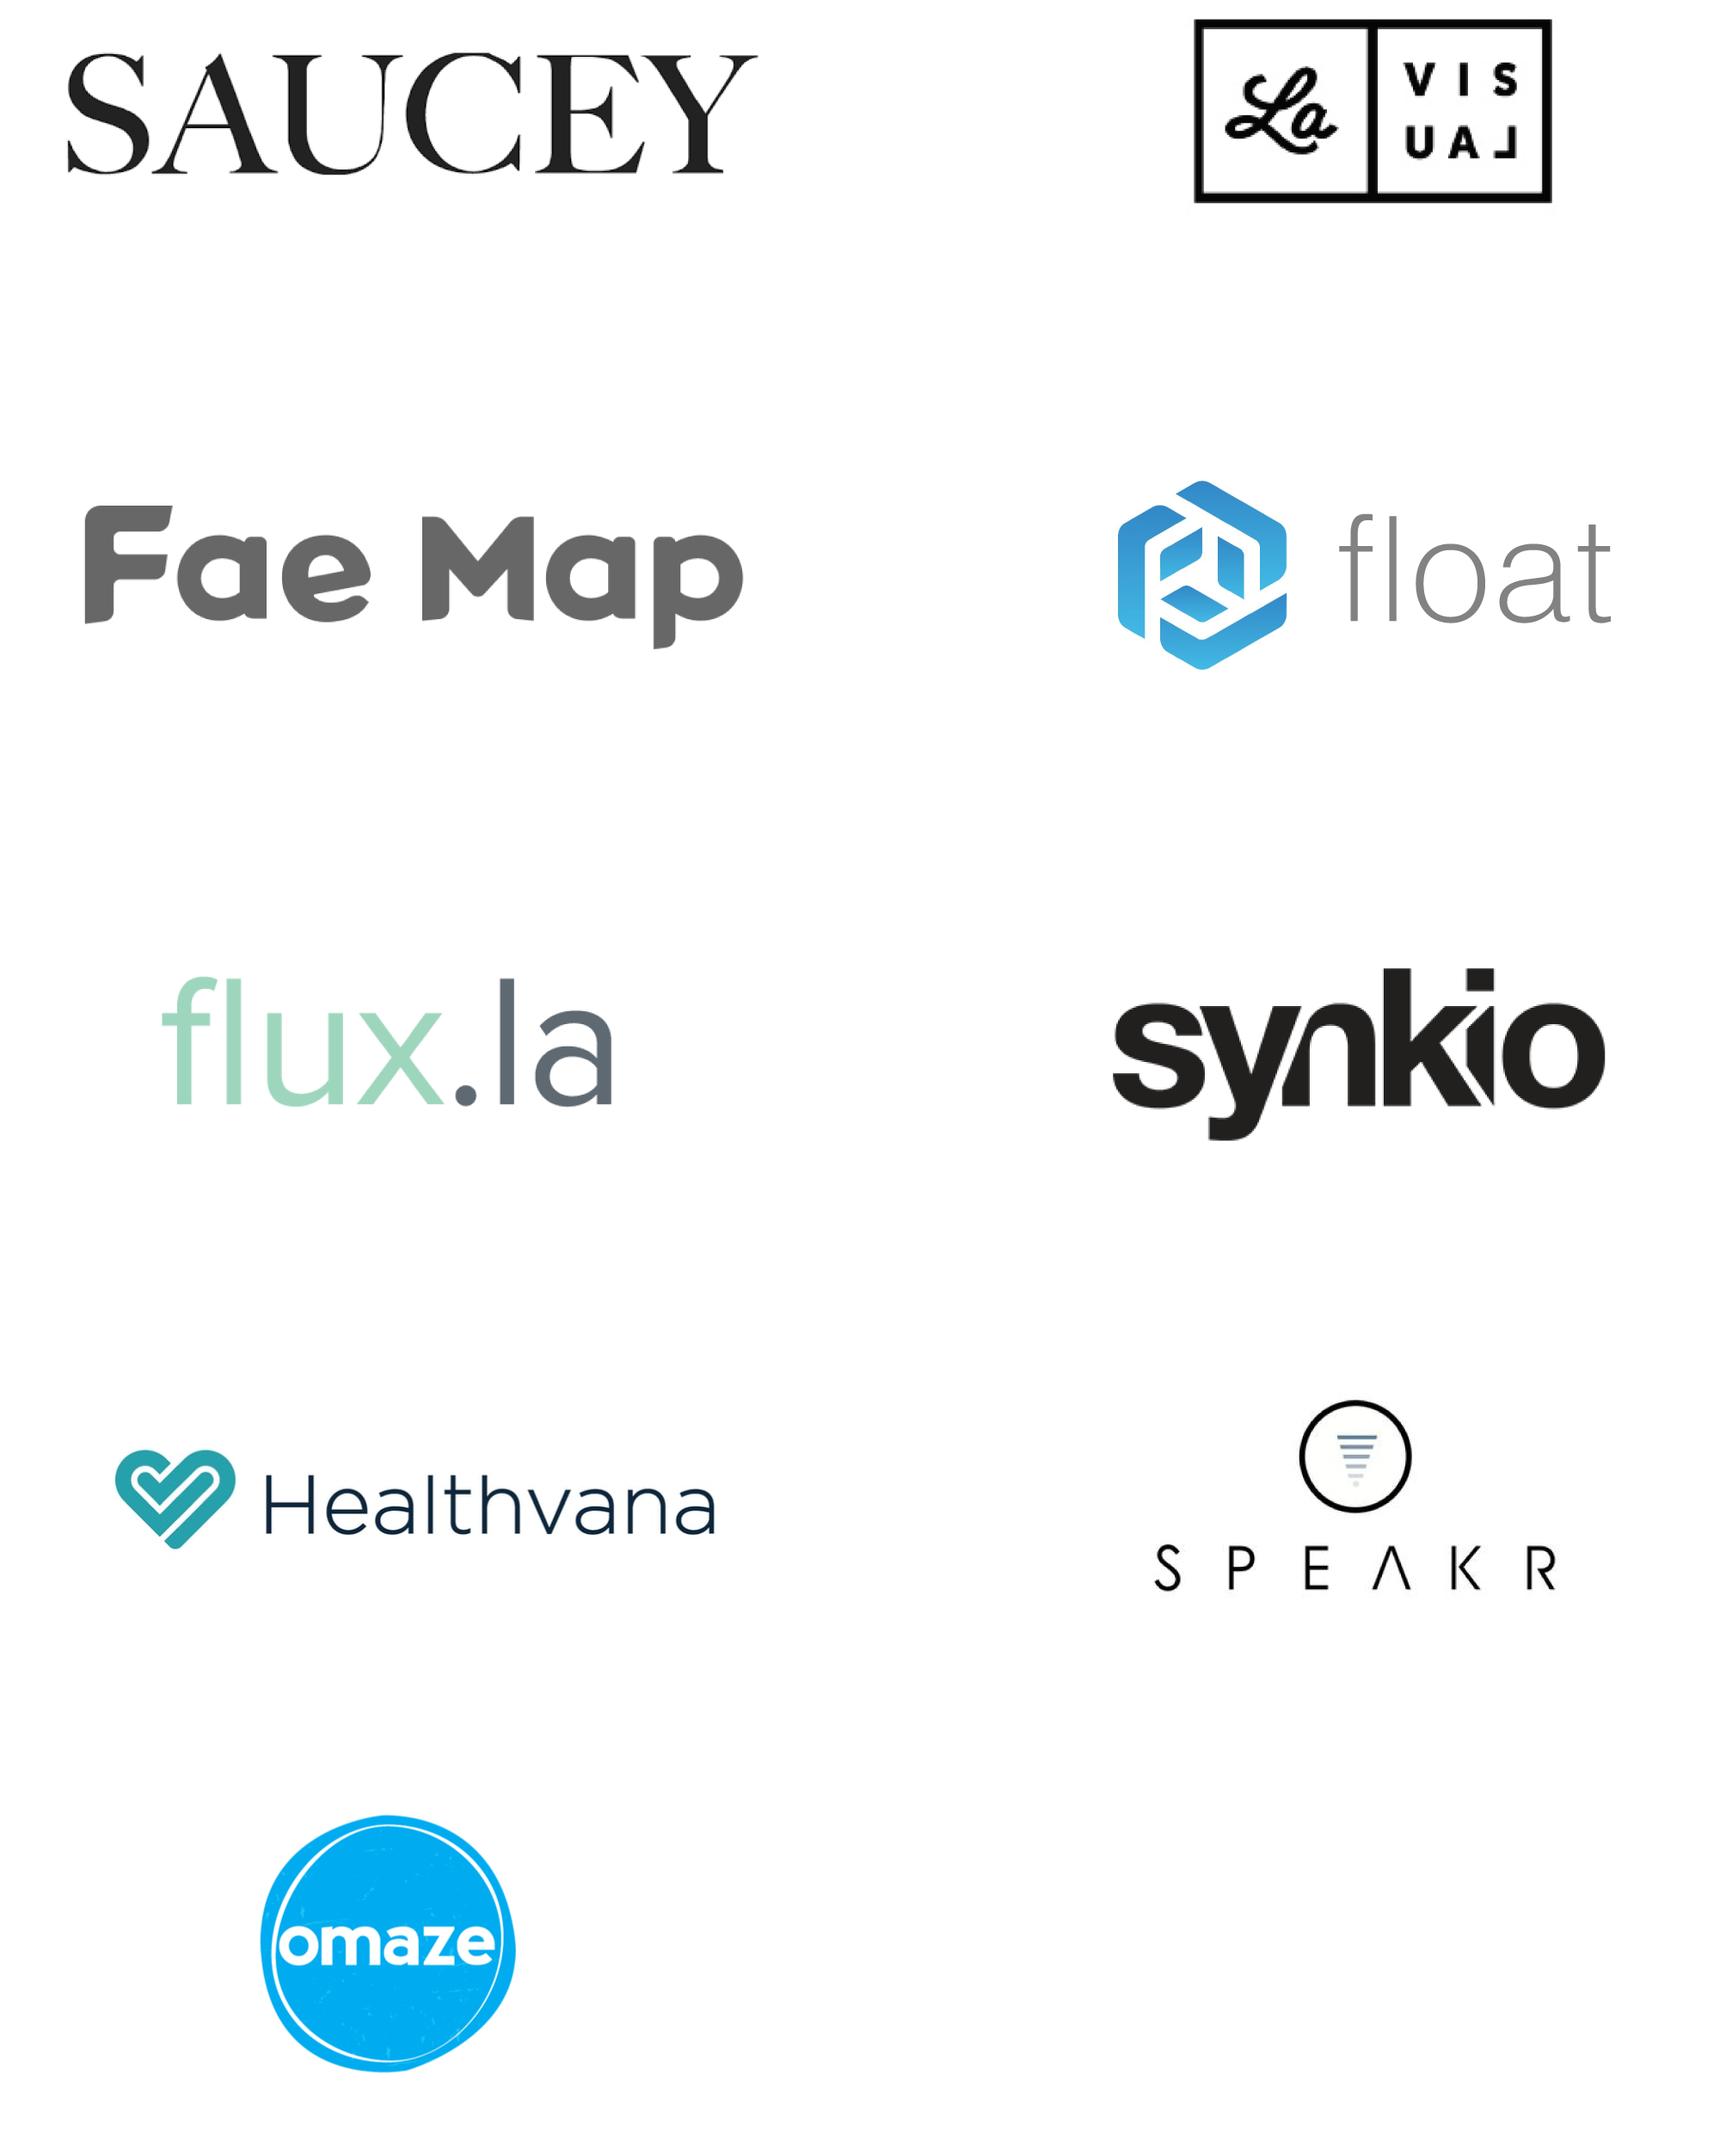
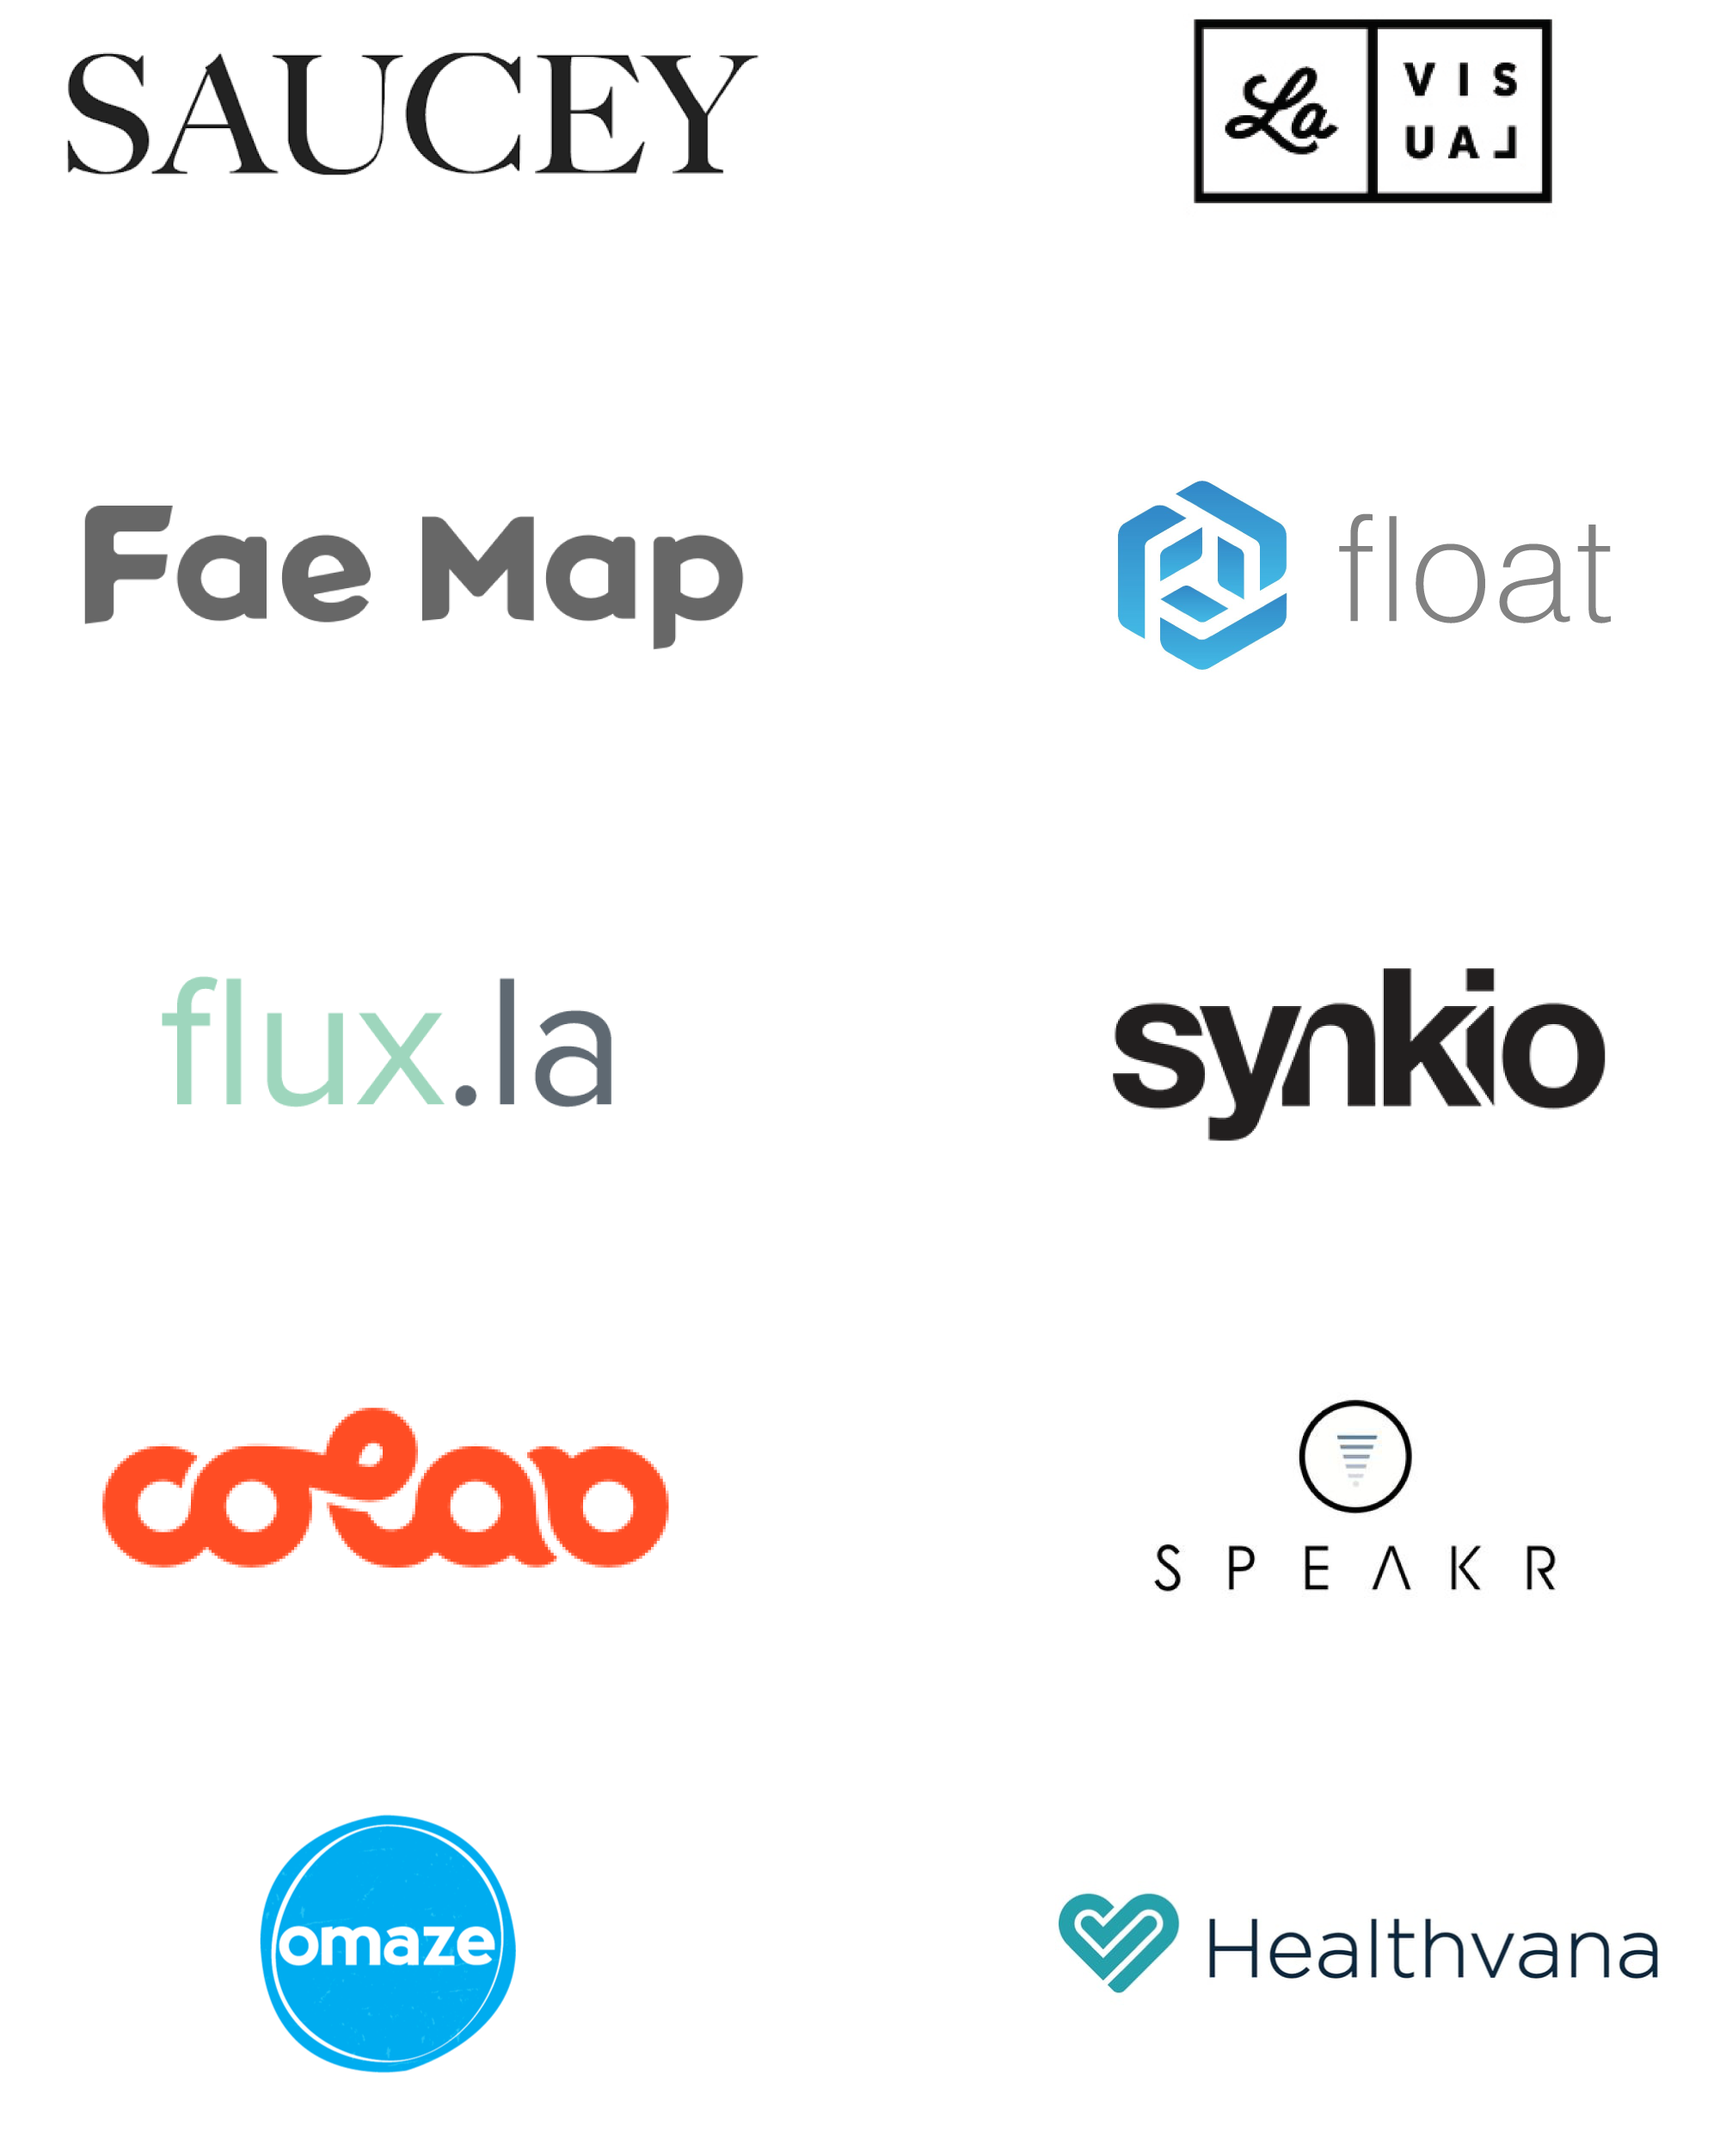
Revert "Fixing Flux & other small fixes"

Changed region(s): [[0.062, 0.6557, 0.434, 0.7494], [0.713, 0.8743, 0.961, 0.9367], [0.62, 0.8743, 0.713, 0.9367]]

diff --git a/public/index.html b/public/index.html
@@ -1,11 +1,12 @@
 <!DOCTYPE html>
+
 <html lang="en">
     <head>
         <link rel="shortcut icon" href="favicon.ico" type="image/x-icon">
         <meta charset="utf-8">
         <meta name="viewport" content="width=device-width, initial-scale=1">
         <title>TechLA Fellows</title>
-        <link rel="stylesheet" type="text/css" href="new.css">
+        <link rel="stylesheet" type="text/css" href="index.css">
         <script src="https://ajax.googleapis.com/ajax/libs/jquery/3.1.1/jquery.min.js"></script>
         <script src="../typed.js-master/js/typed.js"></script>
         <script>
@@ -24,61 +25,18 @@
         </script>
     </head>
     <body>
-      <nav>
-        <a href="/"><img class="logo" src="img/techla-weblogo.png"></a>
-        <div class="navlinks">
-          <a href="about.html">About</a>
-          <a href="partners.html">Partners</a>
-          <a href="https://sparksc.typeform.com/to/HK93FY" target="_blank" class="apply">Apply</a>
-        </div>
-      </nav>
-        <div class="home">
+        <div class="container">
+          <img id="logo" src="techla-weblogo.png">
             <h1 class="special-h1"><div class="element"></div></h1>
-            <p class="intro">TechLA Fellows is looking for exceptionally talented undergraduate students in computer science, design, and business to work as interns at budding startups in LA.</p>
+            <p><em>TechLA Fellows</em> is looking for exceptionally talented undergraduate students in computer science, design, and business to work as interns at budding startups in LA. </p>
+            <!-- <div class="submission-container">
+              <input type="text" name="email" id="email" placeholder="Enter your email for updates!">
+              <input type="submit" value="Submit" id="email-button">
+            </div> -->
+            <!-- Begin MailChimp Signup Form -->
+
+              <script type="text/javascript" src="http://s3.amazonaws.com/downloads.mailchimp.com/js/mc-validate.js"></script><script type="text/javascript">(function($) {window.fnames = new Array(); window.ftypes = new Array();fnames[0]='EMAIL';ftypes[0]='email';fnames[1]='FNAME';ftypes[1]='text';fnames[2]='LNAME';ftypes[2]='text';}(jQuery));var $mcj = jQuery.noConflict(true);</script>
+<!-- End mc_embed_signup -->
         </div>
-        <div class="home-about">
-          <img class="circle" src="img/circle.png" alt>
-          <div class="bubble">
-            <h2 style="color:#9ee3f6">The coolest internships.</h2>
-            <h2 style="color:#ffb296">The newest techsphere.</h2>
-          </div>
-          <div class="icon professional">
-            <img src="img/professional.png" alt>
-            <p>Network with other fellows and professionals.</p>
-          </div>
-          <div class="icon bond">
-            <img src="img/bond.png" alt>
-            <p>Bond with a mentor in your industry.</p>
-          </div>
-          <div class="icon social">
-            <img src="img/social.png" alt>
-            <p>Social events like hikes, speakers, and dinners.</p>
-          </div>
-          <div class="icon tree">
-            <img src="img/tree.png" alt>
-            <p>Experience Los Angeles.</p>
-          </div>
-          <img class="skyline" src="img/skyline.png" alt>
-        </div>
-        <div class="bar"><div class="bluep"></div><div class="orangep"></div><div class="grayp"></div></div>
-        <div class="home-partners">
-          <h1>Our Partners</h1>
-          <a href="/partners.html"><img class="logos not-hidden" src="img/companies.png" alt></a>
-          <a class="hidden" href="/partners.html"><img class="logos" src="img/companies-narrow.png" alt></a>
-        </div>
-      <footer>
-        <div class="footer-container">
-          <div class="footer-content">
-            <div class="footer-logo">
-              <img src="img/presentedby.png">
-            </div>
-            <div class="media-links">
-              <a href="https://twitter.com/gosparksc?lang=en" target="_blank"><img src="img/twitter.png"></a>
-              <a href="https://www.facebook.com/gosparksc/" target="_blank"><img class="small" src="img/fb.png"></a>
-              <a href="https://www.linkedin.com/company/3758371?trk=prof-exp-company-name" target="_blank"><img class="smaller" src="img/linkedin.png"></a>
-            </div>
-          </div>
-        </div>
-      </footer>
     </body>
 </html>

diff --git a/public/partners.html b/public/partners.html
@@ -10,7 +10,7 @@
     </head>
     <body>
       <nav>
-        <a href="/"><img class="logo" src="img/techla-weblogo2.png"></a>
+        <a href="new.html"><img class="logo" src="img/techla-weblogo2.png"></a>
         <div class="navlinks">
           <a href="about.html">About</a>
           <a href="partners.html" class="current">Partners</a>
@@ -25,21 +25,25 @@
         <div class="bar"><div class="bluep"></div><div class="orangep"></div><div class="grayp"></div></div>
         <div class="content">
             <h1>Our Partners</h1>
-            <a href="http://faemaps.com" target="_blank" class="partner">
-              <img src="img/logos/faemap.jpg" alt>
+            <a href="http://colab.la" target="_blank" class="partner">
+              <img class="partner-logo" src="img/logos/colab.jpg" alt>
+              <p>Colab is a Los Angeles-based venture studio that operates on an intelligent blend of cash and equity.</p>
+            </a>
+            <a href="http://faemap.com" target="_blank" class="partner">
+              <img class="partner-logo" src="img/logos/faemap.jpg" alt>
               <p>Fae Map connects people and communities on a real-time social map.</p>
             </a>
             <a href="https://hellofloat.com/" target="_blank" class="partner">
               <img class="partner-logo" src="img/logos/float.jpg" alt>
               <p>Float is a financial services company reinventing the credit experience for the modern, mobile consumer.</p>
             </a>
-            <a href="http://flux.la/" target="_blank" class="partner">
+            <a href="https://www.fluxchargers.com/" target="_blank" class="partner">
               <img class="partner-logo" src="img/logos/flux.jpg" alt>
-              <p>Flux builds brands and businesses through high quality graphic design, creative digital marketing, and incredible user experiences.</p>
+              <p>Flux is a line of credit you can access, manage, and spend directly from your smartphone. No FICO check required. No hidden fees.</p>
             </a>
             <a href="https://healthvana.com/" target="_blank" class="partner">
-              <img src="img/logos/healthvana.jpg" alt>
-              <p>Healthvana is a patient-engagement platform for health clinics. Technology should make your life easier. Their tools enhance medical practice and empower patients.</p>
+              <img class="partner-logo" src="img/logos/healthvana.jpg" alt>
+              <p>Healthvana is a patient-engagement platform for health clinics. Technology should make your life easier. Our tools enhance medical practice and empower patients.</p>
             </a>
             <a href="http://lavisual.com/" target="_blank" class="partner">
               <img class="partner-logo" src="img/logos/lavisual.jpg" alt>

diff --git a/public/about.html b/public/about.html
@@ -10,7 +10,7 @@
     </head>
     <body>
       <nav>
-        <a href="/"><img class="logo" src="img/techla-weblogo2.png"></a>
+        <a href="new.html"><img class="logo" src="img/techla-weblogo2.png"></a>
         <div class="navlinks">
           <a href="about.html" class="current">About</a>
           <a href="partners.html">Partners</a>
@@ -37,7 +37,7 @@
               <img class="article" src="img/nyt-t-logo.png" alt>
               <p><span class="bold">Silicon Beach - The Next Big Thing?</span> <br> <span class="quote">“There’s this guarded optimism, at least that I feel, that everyone thinks L.A. could be the next big thing.”</span></p>
             </a>
-            <a href="https://techcrunch.com/2014/10/08/theres-something-going-on-in-l-a/" target="_blank" class="partner">
+            <a href="https://www.nytimes.com/2014/03/16/fashion/Santa-Monica-Venice-Technology-Start-ups.html?_r=0" target="_blank" class="partner">
               <img class="article bigger" src="img/tc-logo.jpg" alt>
               <p><span class="bold">There's Something Going On In LA</span> <br> <span class="quote">Many people don’t realize that the majority of the monetization of the Internet originated in Los Angeles but was perfected in Silicon Valley.</span></p>
             </a>

diff --git a/about.html b/about.html
@@ -37,7 +37,7 @@
               <img class="article" src="img/nyt-t-logo.png" alt="">
               <p><span class="bold">Silicon Beach - The Next Big Thing?</span> <br> <span class="quote">“There’s this guarded optimism, at least that I feel, that everyone thinks L.A. could be the next big thing.”</span></p>
             </a>
-            <a href="https://techcrunch.com/2014/10/08/theres-something-going-on-in-l-a/" target="_blank" class="partner">
+            <a href="https://www.nytimes.com/2014/03/16/fashion/Santa-Monica-Venice-Technology-Start-ups.html?_r=0" target="_blank" class="partner">
               <img class="article bigger" src="img/tc-logo.jpg" alt="">
               <p><span class="bold">There's Something Going On In LA</span> <br> <span class="quote">Many people don’t realize that the majority of the monetization of the Internet originated in Los Angeles but was perfected in Silicon Valley.</span></p>
             </a>

diff --git a/partners.html b/partners.html
@@ -33,9 +33,9 @@
               <img class="partner-logo" src="img/logos/float.jpg" alt="">
               <p>Float is a financial services company reinventing the credit experience for the modern, mobile consumer.</p>
             </a>
-            <a href="http://flux.la/" target="_blank" class="partner">
+            <a href="https://flux.la/" target="_blank" class="partner">
               <img class="partner-logo" src="img/logos/flux.jpg" alt="">
-              <p>Flux builds brands and businesses through high quality graphic design, creative digital marketing, and incredible user experiences.</p>
+              <p>Flux is a line of credit you can access, manage, and spend directly from your smartphone. No FICO check required. No hidden fees.</p>
             </a>
             <a href="https://healthvana.com/" target="_blank" class="partner">
               <img src="img/logos/healthvana.jpg" alt="">

diff --git a/public/static.css b/public/static.css
@@ -123,8 +123,7 @@ nav {
 
 .partner {
 	background: #fff;
-	border-bottom: 1px solid #ddd;
-	box-shadow: 0 0 2px #ddd;
+	border-bottom: 2px solid #ddd;
 	margin-bottom: 20px;
 	display: block;
 }
@@ -137,11 +136,10 @@ nav {
 		padding: 20px;
 	}
 	.partner:hover {
-		border-bottom: 1px solid #bbb;
-		box-shadow: 0 0 2px #bbb;
+		border-bottom: 2px solid #bbb;
 	}
 
-/* FOOTER */
+//FOOTER
 footer {
 	background-color: black;
 }
@@ -192,17 +190,11 @@ footer {
 
 @media (min-width: 680px) {
 	.header {
-		padding: 100px 0 60px 0;
+		padding-bottom: 60px;
 	}
 	.logo {
 		width: 300px;
 		display: inline-block;
-	}
-	nav {
-		position: fixed;
-		width: 96%;
-		z-index: 101;
-		box-shadow: 0 0 2px #ddd;
 	}
 	.navlinks {
 		float: right;
